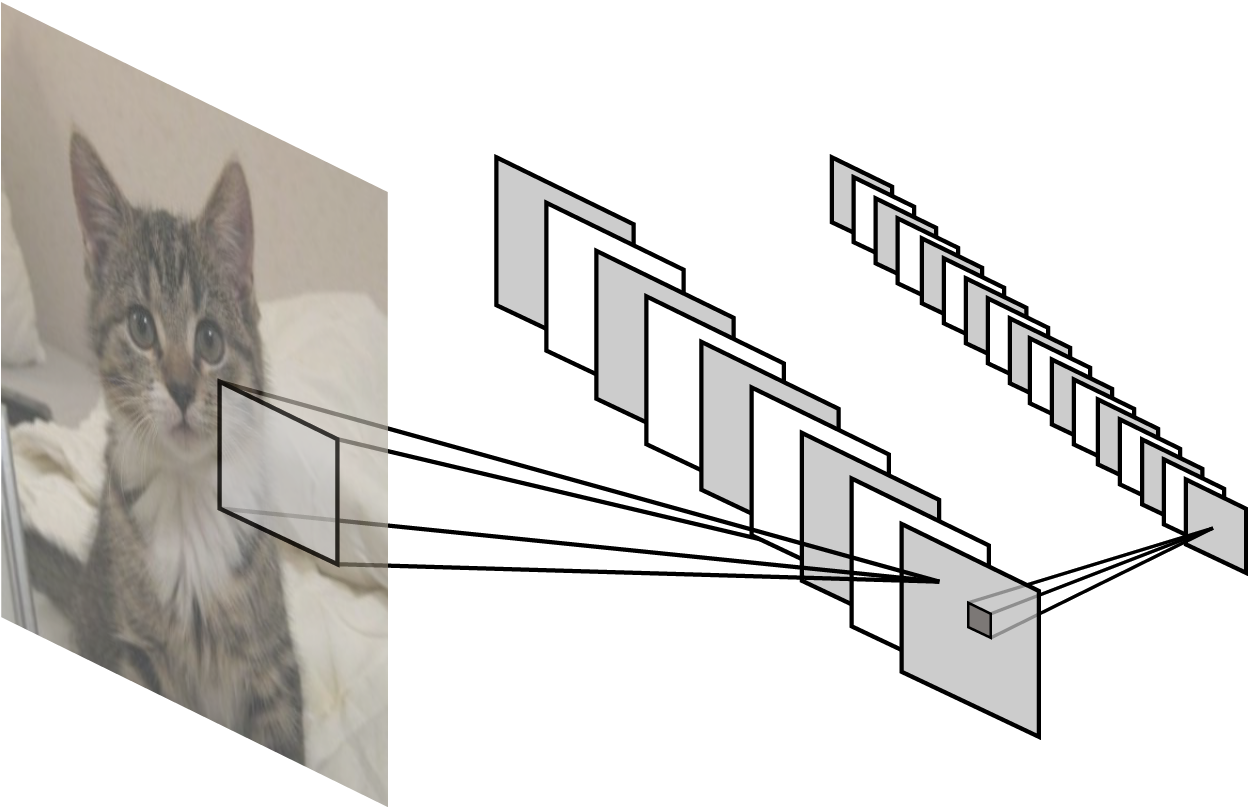
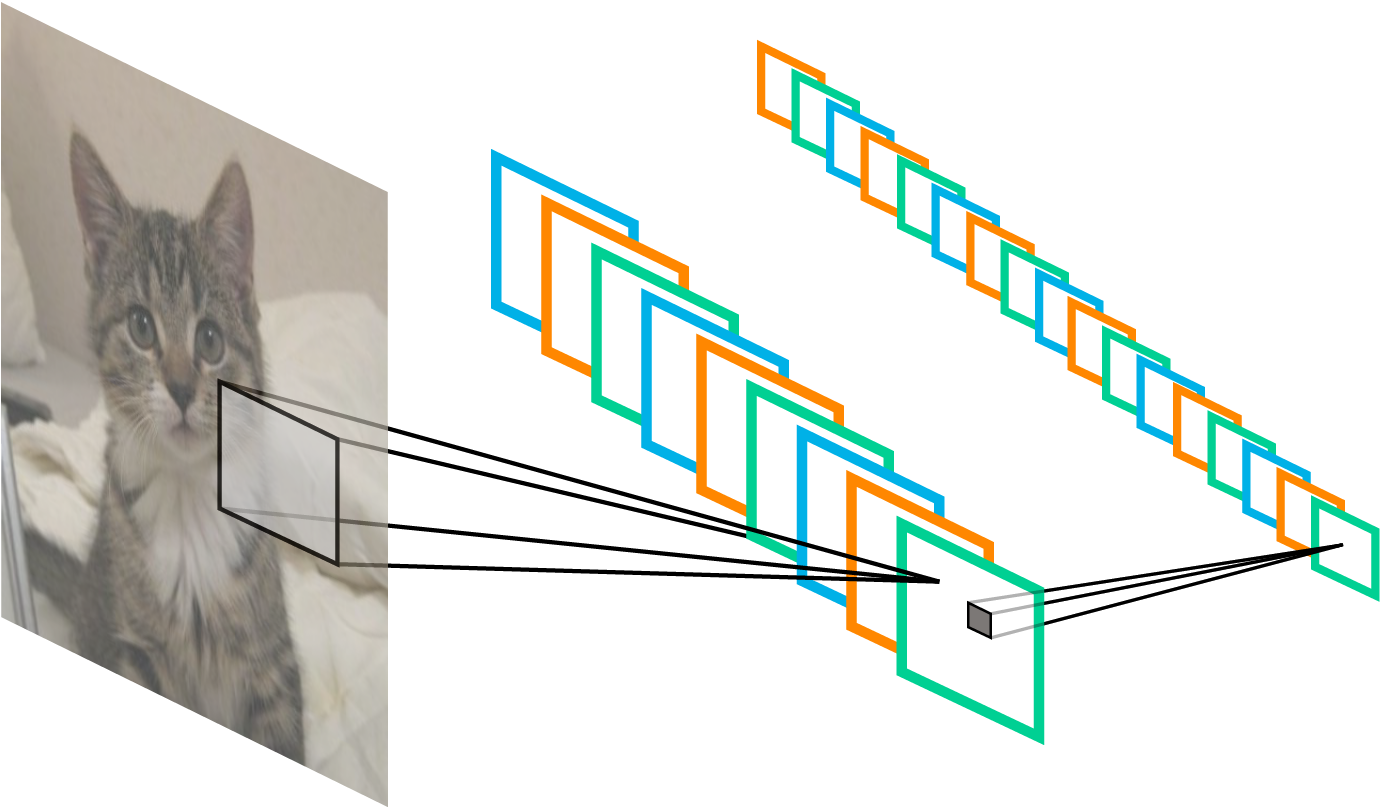
Update images and main readme

diff --git a/README.md b/README.md
@@ -20,7 +20,7 @@ It is currently under construction, but if you have any feedback or comments, I'
 
 ## Convolutional Neural Networks
 <p align="center">
-  <img src="images/main/conv.png", width="35%"/>
+  <img src="images/main/conv.png", width="40%"/>
 </p>
 
 ### Good Reads
